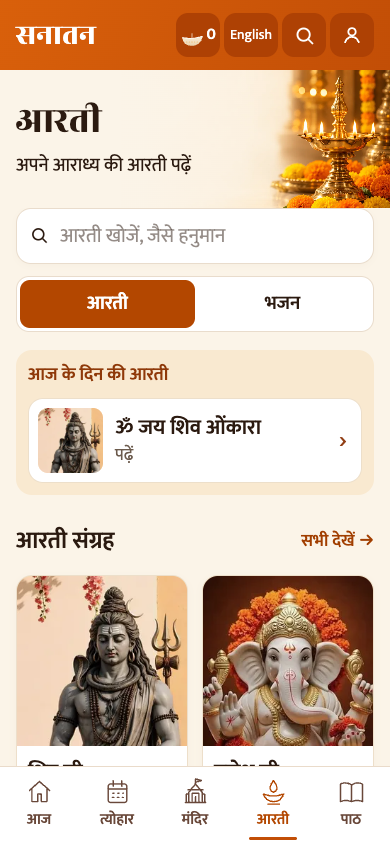
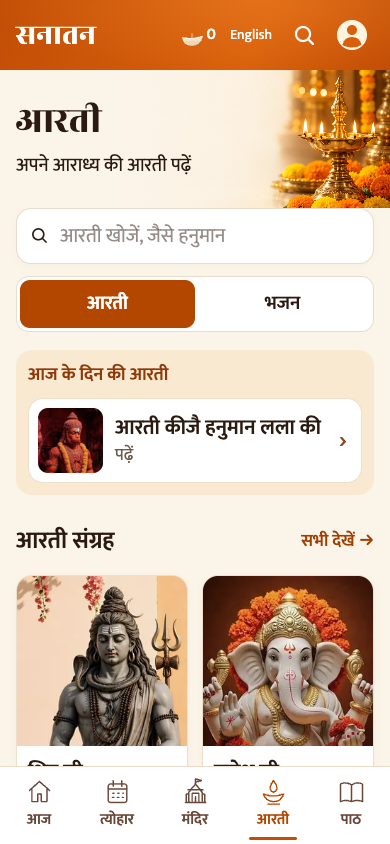
Document approved-scene correction and refresh five-tab review

Changed region(s): [[0.4308, 0.0, 0.9846, 0.0924], [0.0923, 0.4621, 0.2769, 0.5853], [0.3077, 0.4929, 0.8308, 0.5237]]

diff --git a/docs/redesign/HANDOFF.md b/docs/redesign/HANDOFF.md
@@ -23,13 +23,13 @@ Five dependent review branches, beginning at app-source commit eabb21d. PRs shou
 
 ## Assets and retained limitations
 
-New original generated decorative assets: lamp banner, closed unlabelled book banner, Karwa Chauth still life, empty ivory marble shrine, and transparent offering-object photographs. Existing deity identities / colours and original weekday sets remain in use. Actual temple cards use the existing temple photographs and credits, not the fictional shrine.
+New decorative assets include the lamp banner, closed unlabelled book banner and Karwa Chauth still life. Mandir now uses the approved option-5 scene itself, losslessly extracted; local lamp and flower patches provide interactive/daily states. Other deities retain their original weekday cutouts in the reconstructed empty niche. Rejected generated Shiva replacements were removed. Actual temple cards use the existing temple photographs and credits, not the fictional shrine.
 
-No devotional text changed. The deity catalogue adds only an optional shrineWeek image field for the corrected Mandir artwork. Existing known text issues in HANDOVER.md are intentionally untouched. No new katha, ritual, history or festival date was invented.
+No devotional text changed. The deity catalogue adds only an optional shrineScene / shrineScenes fields for the corrected Mandir artwork. Existing known text issues in HANDOVER.md are intentionally untouched. No new katha, ritual, history or festival date was invented.
 
 Still missing from the original catalogue: Durga and Khatu weekday sets; seven day-wise Shivling pictures (the existing placeholder remains); individual pictures for Shani, Santoshi, Saraswati and other reader deities that currently show a diya; improved real photos for several temple pages. Gita meanings remain the original chapters 2 and 12 only. The dated festival dataset ends on 24 November 2026; future festivals require independently checked content, not fabricated dates.
 
-The build retains its existing large-main-bundle warning (~1.7 MB). Offline caching now includes WebP and full card photos, so the first complete offline download is ~39 MB. After installation the daily cards and share rendering work without the network. External YouTube playback still requires connectivity and a user tap.
+The build retains its existing large-main-bundle warning (~1.7 MB). Offline caching now includes WebP and full card photos, so the first complete offline download is ~45 MB. After installation the daily cards and share rendering work without the network. External YouTube playback still requires connectivity and a user tap.
 
 Native file sharing depends on browser support. Desktop fallback saves the card, then presents an explicit WhatsApp link and attachment instruction. Actual transmission remains the user's action.
 
@@ -39,4 +39,6 @@ Every stage was checked with Node 22 TypeScript, Vitest and production build. Fi
 
 ## Mandir correction, 27 October
 
-The first implementation diverged from option 5. The Today/Mandir stage now includes the compact title/picker row, a taller sunlit lattice shrine, seated Shiva daily set, integrated marble offerings and photo-backed Aarti/Jap actions. Original deity fields and card photos remain unchanged. See `mandir-correction/comparison.png` and `mandir-correction/artwork-prompts.md`. This correction is included in branches 3, 4 and 5 before any PR publication.
+Two reconstructions diverged from option 5. The current Today/Mandir stage uses the actual approved scene, with original Shiva pixels, architecture and foreground objects preserved. Native labels and hit areas operate the diya, flowers and bell. The unlit state changes only the front flame region; six daily variants change only a narrow decorative flower strip, and Monday preserves the full approved scene. Aarti and Jap thumbnails also come from the approved reference.
+
+Original deity fields, daily cutouts and safe share-card photos remain unchanged. See `mandir-fidelity/comparison.png`, README, pixel-verification.json and artwork-edits.json. The earlier `mandir-correction` folder is historical rejected evidence. The correction is included in branches 3, 4 and 5 before PR publication. Corrected stages pass TypeScript, their 11 / 15 / 20 tests and production builds; the final scene and diya state also work offline.

diff --git a/docs/redesign/pr-5/README.md b/docs/redesign/pr-5/README.md
@@ -14,6 +14,6 @@ Final consistency fixes keep the city selector in Profile, retain saved-city cal
 - Browser: morning, festival, shloka, temple and 21-day milestone image previews; PNG native sharing; cancelled share; daily-sheet preview and return; and automatic Karwa Chauth greeting on 29 October 2026 passed. No actual messages were sent; browser sharing was stubbed for these checks.
 - Offline production PWA: morning and festival cards regenerated with the network disabled.
 - Phone screenshots include before/after morning and festival screens and the new shloka, temple and milestone previews. Exported card samples are also included.
-- Main bundle remains approximately 1.7 MB; full offline installation about 39 MB. Existing content gaps and picture gaps are summarized in `../HANDOFF.md`.
+- Main bundle remains approximately 1.7 MB; full offline installation about 45 MB. Existing content gaps and picture gaps are summarized in `../HANDOFF.md`.
 
-Depends on PRs 1–4 in order; target `app-source`. No devotional text, existing storage keys, deployments or hosting changed. The inherited Mandir correction adds only its optional artwork field.
+Depends on PRs 1–4 in order; target `app-source`. No devotional text, existing storage keys, deployments or hosting changed. The inherited Mandir correction adds only its optional scene metadata.
